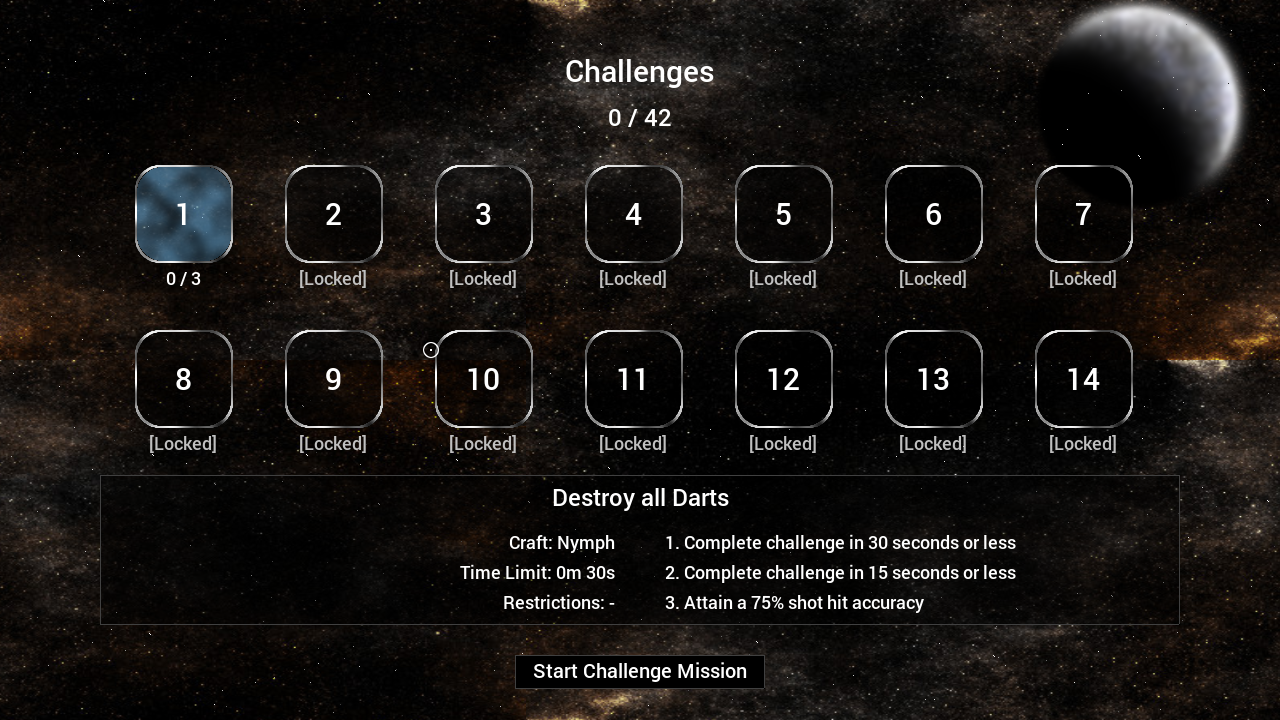
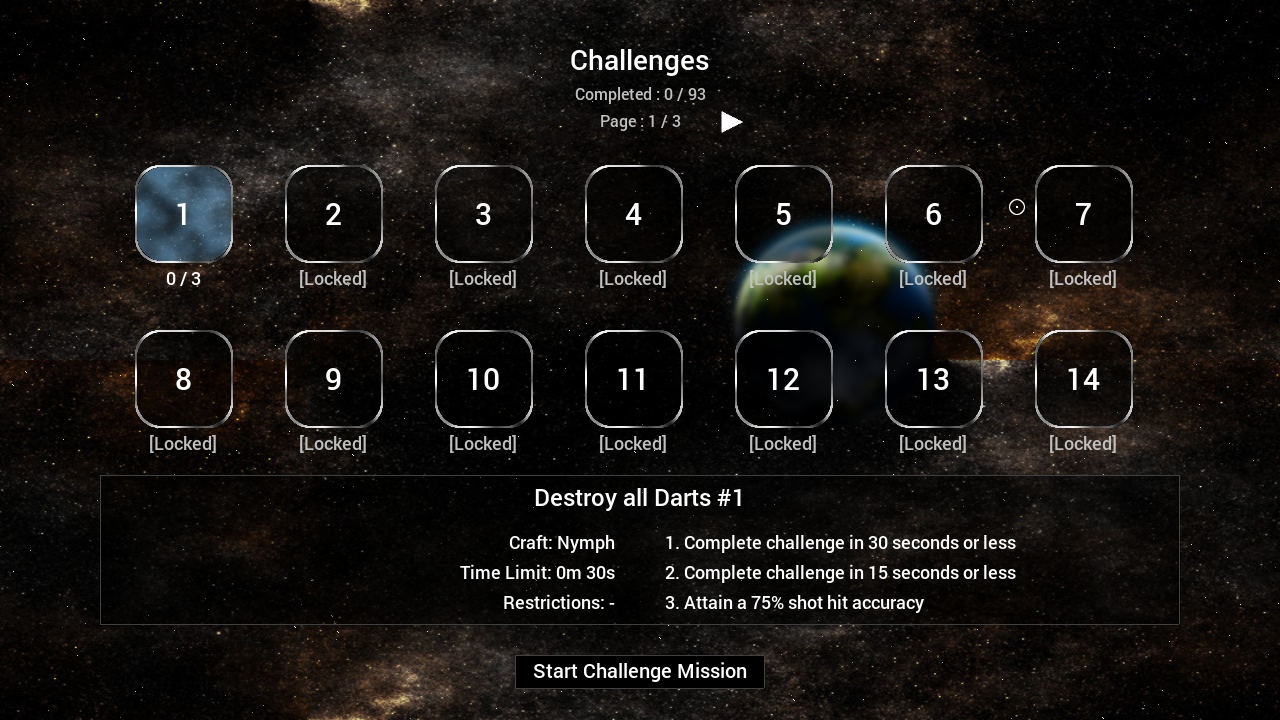
Updated screenshots and text.

diff --git a/manual/index.html b/manual/index.html
@@ -26,7 +26,7 @@ span.highlight {font-weight:bold; color: #0bf;}
 <div style="text-align:center">
 <p><img src="logo.png"></p>
 <p><img src="pandoran.png"></p>
-<p>Last updated: 14th May 2016</p>
+<p>Last updated: 12th May 2016</p>
 </div>
 
 <div>
@@ -61,8 +61,10 @@ This is the first screen that you will see upon starting the game. You may selec
 <ul>
 <li><span class="highlight">Campaign</span> - Start or continue the current campaign.</li>
 <li><span class="highlight">Challenges</span> - Go to the challenges section.</li>
+<li><span class="highlight">Trophies</span> - View trophies that have been earned. See the Trophies section for more information.</li>
 <li><span class="highlight">Stats</span> - View various game statistics.</li>
 <li><span class="highlight">Options</span> - Configure various configuration option. See the options section for more information.</li>
+<li><span class="highlight">Credits</span> - View the production credits for the game.</li>
 <li><span class="highlight">Quit</span> - Exit the game</li>
 </ul>
 </p>
@@ -111,7 +113,6 @@ You can scroll around the galactic map by holding down the left mouse button and
 <tr><td>Left mouse button</td><td>Select highlighted star system</td></tr>
 <tr><td>Escape</td><td>Menu</td></tr>
 </table>
-<p style="font-size:10pt; font-style:italic">(note: these controls can be changed in the options screen)</p>
 
 <h4>Star Systems</h4>
 <p>
@@ -143,7 +144,6 @@ The Star System view shows a list of missions available for that star system. In
 <tr><td>Left mouse button</td><td>Select mission / start mission</td></tr>
 <tr><td>Escape</td><td>Return to galactic map</td></tr>
 </table>
-<p style="font-size:10pt; font-style:italic">(note: these controls can be changed in the options screen)</p>
 
 <h4>Missions</h4>
 <p>
@@ -200,7 +200,7 @@ From time to time, message boxes will appear. These will carry important communi
 <tr><td>Tab</td><td>Display objectives</td></tr>
 <tr><td>Escape</td><td>Menu</td></tr>
 </table>
-<p style="font-size:10pt; font-style:italic">(note: these controls can be changed in the options screen)</p>
+<p style="font-size:10pt; font-style:italic">(note: some controls can be changed in the options screen)</p>
 
 <h3>Combat</h3>
 
@@ -275,7 +275,7 @@ The radar displays a number of coloured blips, with the player in the center. Th
 <tr><td>A</td><td>Cycle targets</td></tr>
 <tr><td>D</td><td>ECM</td></tr>
 </table>
-<p style="font-size:10pt; font-style:italic">(note: these controls can be changed in the options screen)</p>
+<p style="font-size:10pt; font-style:italic">(note: some controls can be changed in the options screen)</p>
 
 <h4>Weaponry</h4>
 <p>
@@ -330,8 +330,8 @@ To start challenge mission, click on the numbered mission box and then click on 
 <p>&nbsp;</p>
 
 <div class='annotationContainer'>
-	<div class="annotation" style="left:350px; top:65px;">1</div>
-	<div class="annotation" style="left:430px; top:65px;">2</div>
+	<div class="annotation" style="left:330px; top:45px;">1</div>
+	<div class="annotation" style="left:480px; top:65px;">2</div>
 	<div class="annotation" style="left:130px; top:100px;">3</div>
 	<div class="annotation" style="left:105px; top:185px;">4</div>
 	<div class="annotation" style="left:205px; top:185px;">5</div>
@@ -340,8 +340,8 @@ To start challenge mission, click on the numbered mission box and then click on 
 </div>
 <img src="challenges.png" class="screenshot">
 <ol>
-	<li>Total challenges completed</li>
-	<li>Total challenges</li>
+	<li>Total challenges completed / outstanding</li>
+	<li>Page number</li>
 	<li>Challenge mission box</li>
 	<li>Number of challenges completed / available for this mission</li>
 	<li>Indciates this challenge mission is not yet available</li>
@@ -352,11 +352,27 @@ To start challenge mission, click on the numbered mission box and then click on 
 
 <h3>Trophies</h3>
 <p>
-The Pandoran War offers an optional achievement award system, in the form of trophies. Trophies are earned through various gameplay actions, such as completing missions, defeating enemies, and racking up stats. Earned and available trophies can be viewed in the menu from the title screen, the galactic map, and the challenges menu. A notification will be shown when a trophy is unlocked, sliding in from the left-hand side of the screen. So as not to interupt the game, potentially spoiling a hard-fought mission, notifications are only shown at certain points during the game.
+The Pandoran War offers an optional achievement award system (like those found on PSN, Xbox Live, and Steam), in the form of trophies. Trophies are earned through various gameplay actions, such as completing missions, defeating enemies, and racking up stats. Earned and available trophies can be viewed in the menu from the title screen, the galactic map, and the challenges menu. A notification will be shown when a trophy is unlocked, sliding in from the left-hand side of the screen. So as not to interupt the game, potentially spoiling a hard-fought mission, notifications are only shown at certain points during the game.
 </p>
+
+<div class='annotationContainer'>
+	<div class="annotation" style="left:330px; top:45px;">1</div>
+	<div class="annotation" style="left:480px; top:65px;">2</div>
+	<div class="annotation" style="left:300px; top:200px;">3</div>
+	<div class="annotation" style="left:400px; top:270px;">4</div>
+	<div class="annotation" style="left:450px; top:350px;">5</div>
+</div>
 <img src="trophies.png" class="screenshot">
+<ol>
+	<li>Earned / Total trophies</li>
+	<li>Page number</li>
+	<li>Challenge mission box</li>
+	<li>A hidden trophy. Will be revealed once requirements are met</li>
+	<li>An earned trophy (note the trophy is coloured)</li>
+	<li>An unearned trophy (note that it is greyed out)</li>
+</ol>
 <p>
-Note that this is not an online system, and is local to the machine on which the game is saved.
+<p style="font-size:10pt; font-style:italic">(note: this is not an online system, and is local to the machine on which the game is saved.)</p>
 </p>
 
 <h3>Misc. gameplay details</h3>
